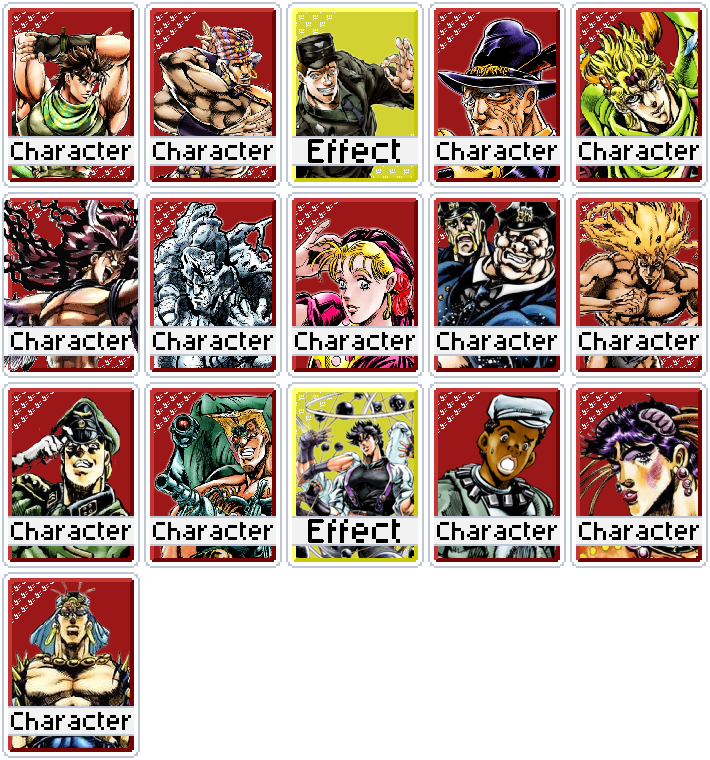
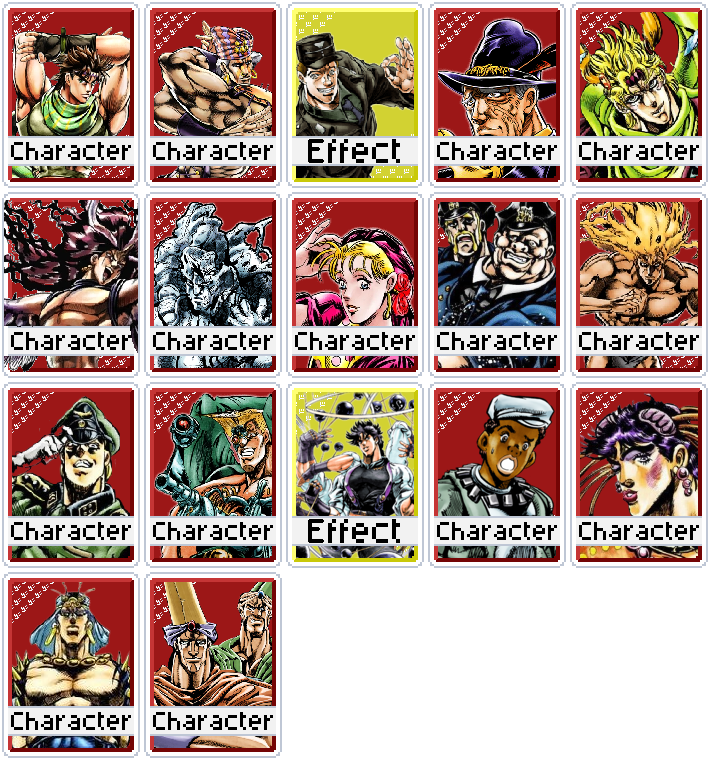
Add Messina and Loggins joker

Changed region(s): [[0.1859, 0.7566, 0.4028, 0.9987]]

diff --git a/compendium/tests/test_build.py b/compendium/tests/test_build.py
@@ -28,7 +28,7 @@ def test_outputs_exist(site):
 
 
 def test_data_has_every_joker(data):
-    assert len(data["jokers"]) == 167 and data["version"] == "v9.9.9"
+    assert len(data["jokers"]) == 168 and data["version"] == "v9.9.9"
     assert len(data["themes"]) == 57
 
 

diff --git a/compendium/tests/test_lua_env.py b/compendium/tests/test_lua_env.py
@@ -7,7 +7,7 @@ def find(mod, key):
 
 
 def test_loads_every_joker(mod):
-    assert len(mod.jokers) == 167
+    assert len(mod.jokers) == 168
 
 
 def test_order_is_collection_order(mod):
